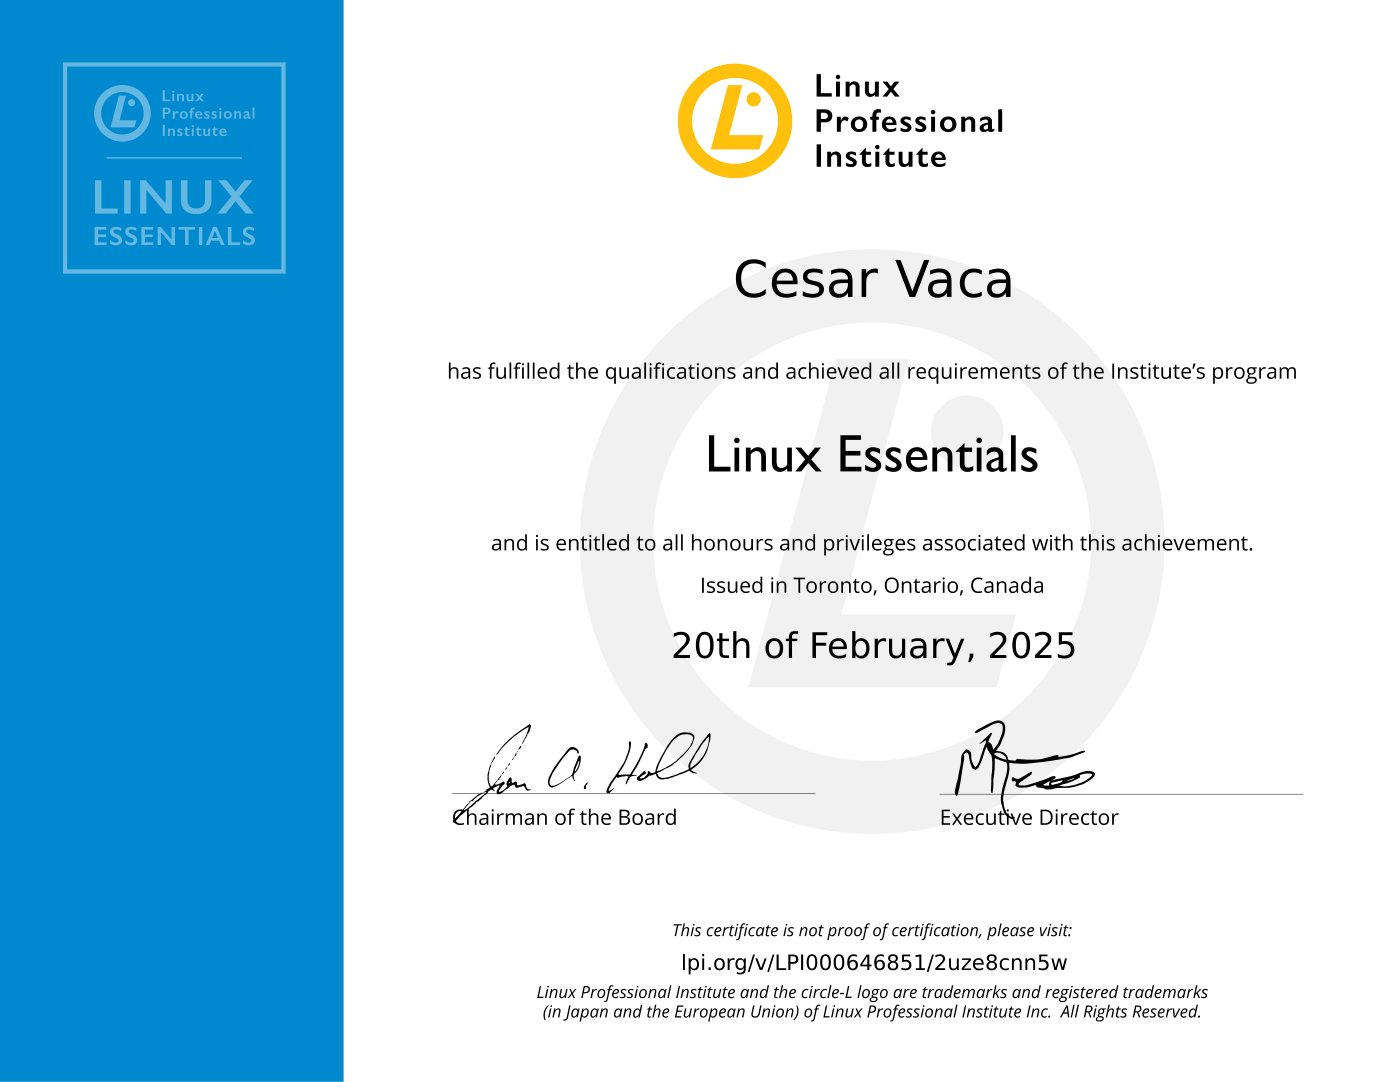
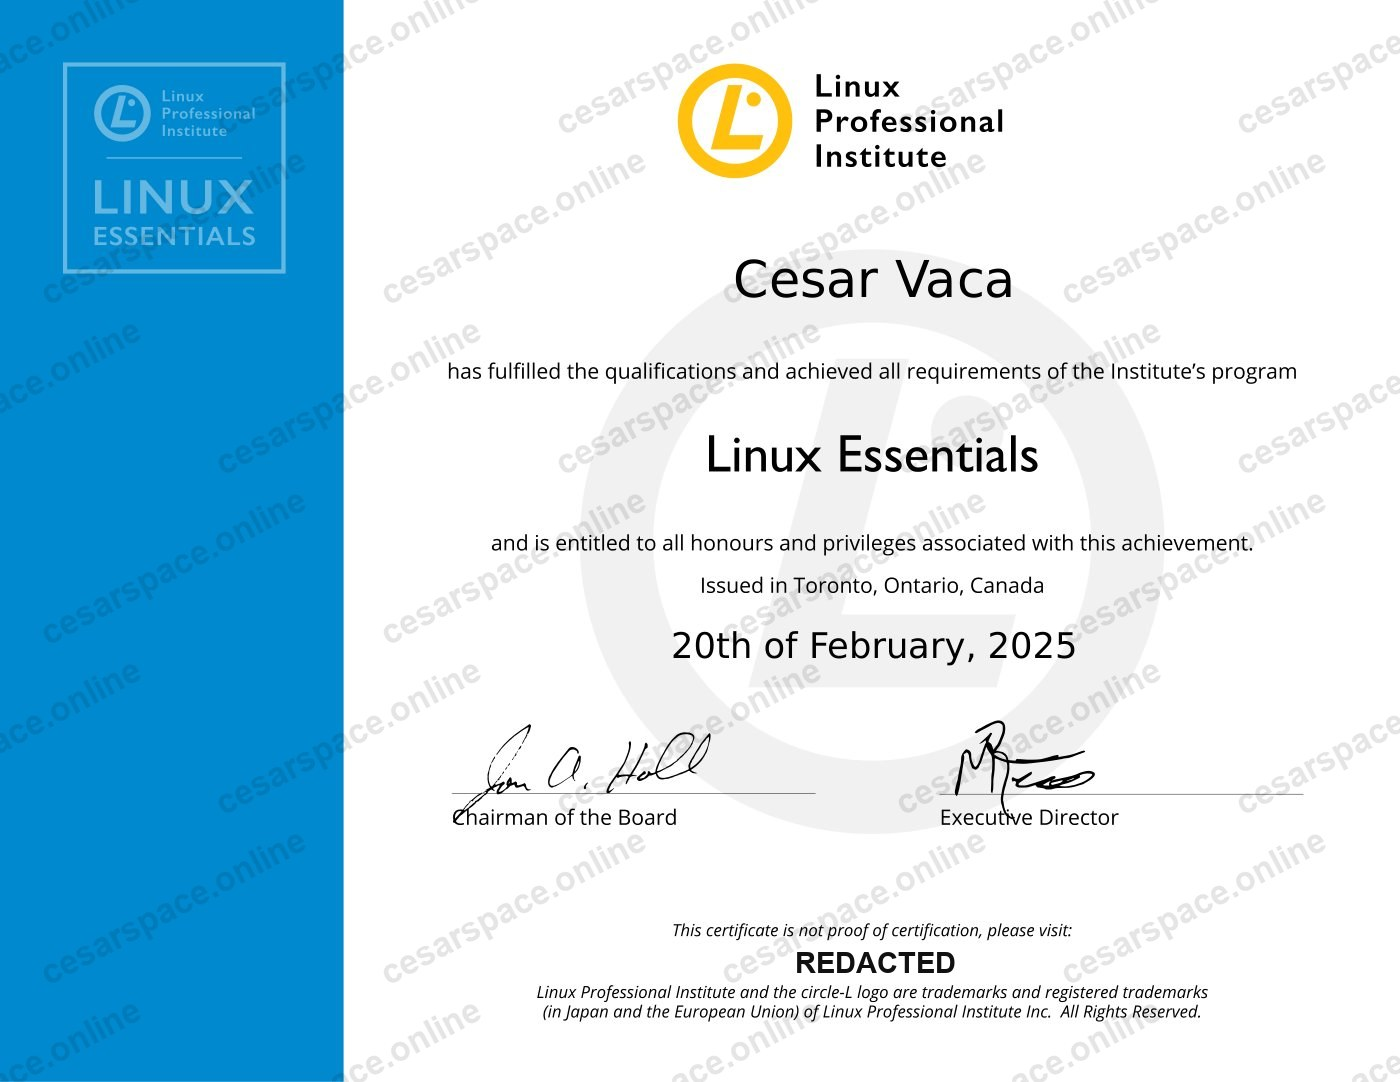
Redact personal ID numbers and watermark all cert images
Every unique identifier on each of the 7 cert JPEGs is painted over
and replaced with "REDACTED": CompTIA's Candidate ID and its
separate verification Code (both same across the 4 CompTIA certs),
ISC2's Certification Number, AWS's Validation Number, and the LPI
verification code embedded in the Linux Essentials cert's URL.
Redaction box color matches each cert's local background. A tiled,
rotated "cesarspace.online" watermark is layered across every image.
Addresses the owner's concern about a persistent personal identifier
being publicly viewable; the separate "Verify with Credly" links are
untouched and still work independently.

diff --git a/CLAUDE.md b/CLAUDE.md
@@ -422,11 +422,38 @@ expect).
 PDF certificates (sourced from
 `~/Library/CloudStorage/ProtonDrive-cesar@cvmail.me-folder/career/certs/`,
 also mirrored under iCloud `~/Library/Mobile Documents/.../work/certs/`), and
-each was rasterized with PyMuPDF at 1400px-long-edge, ~85 quality JPEG
-(78–162KB each — cheap enough to not bother lazy-generating srcset variants).
+each was rasterized with PyMuPDF at 1400px-long-edge, ~85 quality JPEG.
 All 7 source PDFs are US Letter landscape (792×612pt, or equivalent), so the
 JPEGs are ~1.294:1 — very close to but not exactly the `.cert-image`
 CSS's 4:3 box; `object-fit: cover` absorbs the difference invisibly.
+
+**Every cert JPEG has since been redacted and watermarked in place**
+(129–219KB each now — bigger than the original 78–162KB range, since the
+tiled watermark adds fine-grained texture that costs more JPEG bytes than
+flat certificate backgrounds do). Per the owner's security concern about
+publishing a persistent personal identifier on a public page, every unique
+ID-like number on every cert image is painted over with a solid box and
+replaced with bold "REDACTED" text — not just CompTIA's literal "Candidate
+ID" field (same on all 4 CompTIA certs: pentest-plus, security-plus,
+network-plus, cloud-plus) but also each CompTIA cert's separate "Code:"
+verification code near the bottom, ISC2's "Certification Number" on the
+SSCP cert, AWS's "Validation Number" on the AWS cert, and the LPI
+verification code embedded in the visible URL on the Linux Essentials cert.
+The redaction box color matches each cert's local background (white for
+the light-background certs, the same dark navy as the card body on the AWS
+one) so it reads as part of the original design, not a crude patch. A
+tiled, rotated, semi-transparent "cesarspace.online" watermark (dark text
+on light certs, light text on the dark AWS one) is layered across every
+image afterward. **This has no committed source/generator script** (same
+pattern as the original PDF→JPEG rasterization and the OG image — a one-off
+Pillow script run ad hoc, not saved in the repo) — the redaction box
+coordinates were hand-measured per image via pixel-column/row projection
+scans and are specific to each cert's exact layout, so they are **not
+reusable** if any of these 7 images is ever regenerated from its source PDF
+again; redoing that would require re-locating and re-measuring the ID
+field(s) on the new image before redacting. None of the "Verify with
+Credly" links elsewhere on the page were touched — those still work as an
+independent, un-redacted verification path.
 
 The **UMGC degree card is removed for now** — the owner doesn't have that
 credential's file ready yet. Re-add it the same way: a `cert-card` with an
